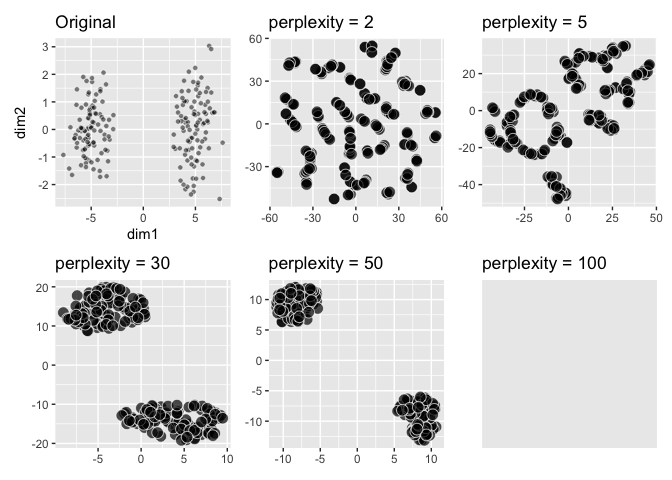
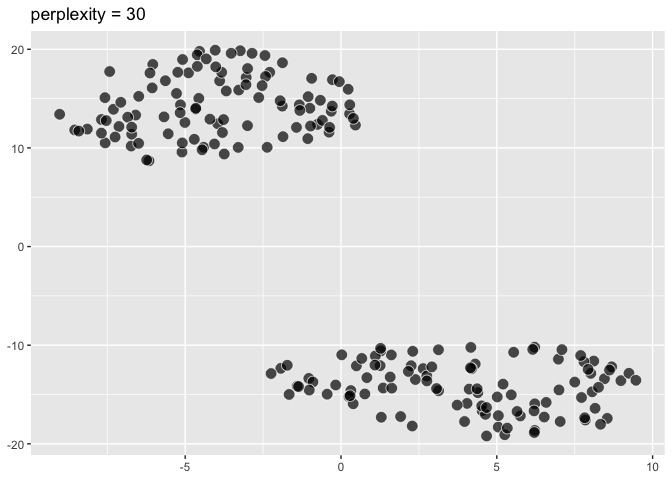
show individual plots through perplexity 30

diff --git a/README.md b/README.md
@@ -517,7 +517,12 @@ pp5 <- ggplot(data = hello_world_of_tsne) +
 pp30 <- ggplot(data = hello_world_of_tsne) + 
   aes(dims = dims(dim1:dim2)) +
   geom_tsne(perplexity = 30) + 
-  labs(title = "perplexity = 30")
+  labs(title = "perplexity = 30"); pp30
+```
+
+![](README_files/figure-gfm/unnamed-chunk-14-3.png)<!-- -->
+
+``` r
 
 pp50 <- ggplot(data = hello_world_of_tsne) + 
   aes(dims = dims(dim1:dim2)) +
@@ -538,7 +543,7 @@ original + pp2 + pp5 + pp30 + pp50 + pp100
 #> ! perplexity is too large for the number of samples
 ```
 
-![](README_files/figure-gfm/unnamed-chunk-14-3.png)<!-- -->
+![](README_files/figure-gfm/unnamed-chunk-14-4.png)<!-- -->
 
 ``` r
 
@@ -554,7 +559,7 @@ last_plot() &
 #> Please use `theme()` to construct themes.
 ```
 
-![](README_files/figure-gfm/unnamed-chunk-14-4.png)<!-- -->
+![](README_files/figure-gfm/unnamed-chunk-14-5.png)<!-- -->
 
 ``` r
 
